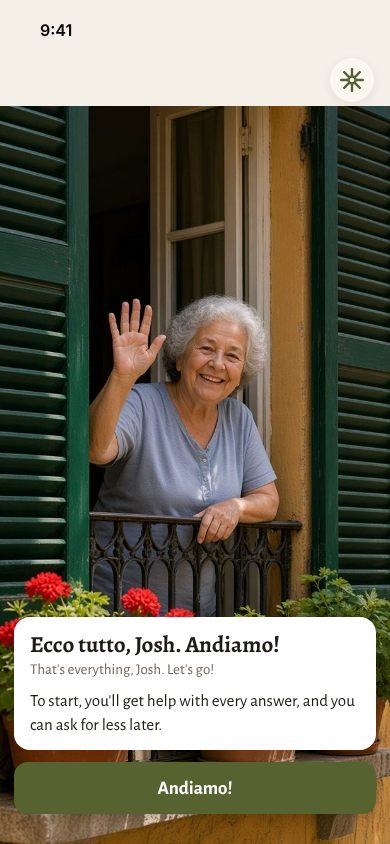
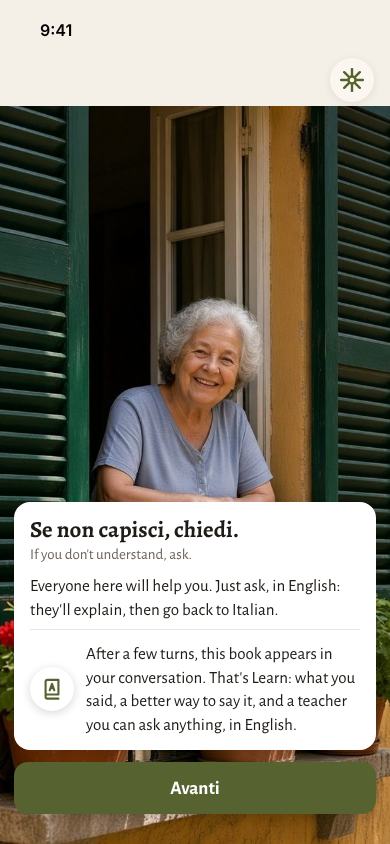
Orientation tour: say it in English back as step 7; help card without phrases (Josh)
Josh: "no H9 was good" (keep the say-it-in-English try) and "telling them
to recall Puo ripetere is useless". The tour is 9 steps: 1-6 as before,
7 say it in English tried once, 8 getting help (just ask, in English) with
the Learn book, 9 Andiamo. Canvas row H, pictures, script and roadmap updated.

Claude-Session: https://claude.ai/code/session_01HuSMtjsR1f1fbNVszYXEaS

Changed region(s): [[0.0308, 0.3389, 0.9846, 0.8626], [0.4, 0.9242, 0.6154, 0.955]]

diff --git a/docs/orientation-script.md b/docs/orientation-script.md
@@ -10,9 +10,9 @@
 - **About two to three minutes. Skippable at every step, replayable from Settings → How Fuori works.** Explanation beats move on with **Next**; that's navigation, not an answer.
 - **The game's rules don't apply here** (Josh, 2026-10-23). The immersion rules (Italian only, English only when asked, no AI notes) are for conversations in the world. This is set-up: she speaks English, talks about the app and names its parts.
 
-**Mock-ups (2026-10-23):** canvas "Reply buttons", row H; pictures in `design/orientation/H1.png` to `H8.png`. No Skip or step count in the bar (Josh); her full picture while she sets you up (1–4, 7, 8), then the app's own screens dimmed behind her card, with a small portrait of her on the card (5, 6).
+**Mock-ups (2026-10-23):** canvas "Reply buttons", row H; pictures in `design/orientation/H1.png` to `H9.png`. No Skip or step count in the bar (Josh); her full picture while she sets you up (1–4, 7–9), then the app's own screens dimmed behind her card, with a small portrait of her on the card (5, 6).
 
-**Built, steps 1–3 (laptop, 2026-10-23), with Josh's edits:** H1's note ends "Tap the green microphone to talk. Tap it again to send me your name." and her question reads "What's your name? Tap the mic" (onboarding keeps tap to talk, tap to send); H2's buttons are **Benvenuto** (Masculine) and **Benvenuta** (Feminine); H3 unchanged, and the level picked is the learner's level, shown and changed in Settings (`POST /v1/me/level`; the Settings picker is live). **No Skip and no step count in the bar** (Josh). With the mic off, step 1 offers to go on without a name. Lines in `content/<country>/onboarding.ts` → `orientation`; the app uses the tour when the server sends them, else today's onboarding. After step 3, Avanti goes to the city list until steps 4–8 are built (the tour is now 8 steps: Josh dropped the circle, characters and say-it-in-English beats and folded Learn into one help card, 2026-10-23).
+**Built, steps 1–3 (laptop, 2026-10-23), with Josh's edits:** H1's note ends "Tap the green microphone to talk. Tap it again to send me your name." and her question reads "What's your name? Tap the mic" (onboarding keeps tap to talk, tap to send); H2's buttons are **Benvenuto** (Masculine) and **Benvenuta** (Feminine); H3 unchanged, and the level picked is the learner's level, shown and changed in Settings (`POST /v1/me/level`; the Settings picker is live). **No Skip and no step count in the bar** (Josh). With the mic off, step 1 offers to go on without a name. Lines in `content/<country>/onboarding.ts` → `orientation`; the app uses the tour when the server sends them, else today's onboarding. After step 3, Avanti goes to the city list until steps 4–9 are built (the tour is now 9 steps: Josh dropped the circle and talking-with-characters beats and folded Learn into one help card, 2026-10-23).
 
 **More of a mix (Josh, 2026-10-23: "Maybe more of a mix of Italian and English?"):** every card opens with one short Italian line and its English, then the explanation in English. The Italian lines are simple and come back in the game. Buttons to move on say *Avanti*. Lines on the mock-ups:
 
@@ -24,8 +24,9 @@
 | 4 | *Perfetto! Fuori è un viaggio in Italia.* | Perfect! Fuori is a trip to Italy. |
 | 5 | *Si comincia da Roma.* | You start in Rome. |
 | 6 | *Scegli un posto.* | Pick a place. |
-| 7 | *Se non capisci, chiedi.* · *Può ripetere?* · *Più piano, per favore.* | If you don't understand, ask. · Can you say that again? · Slower, please. |
-| 8 | *Ecco tutto, {name}. Andiamo!* | That's everything. Let's go! |
+| 7 | *Non sai come si dice?* … *Perché sei in Italia?* | Don't know how to say it? … Why are you in Italy? |
+| 8 | *Se non capisci, chiedi.* | If you don't understand, ask. |
+| 9 | *Ecco tutto, {name}. Andiamo!* | That's everything. Let's go! |
 
 Beat 1 uses *Benvenuti* (plural) because she doesn't know yet how to address the learner.
 
@@ -71,14 +72,21 @@ Each beat: what's on screen · what she says · what the learner does · what it
 **Screen:** a city's places.
 **She:** "In each city, pick a place: a bar, a trattoria, a piazza, a pharmacy. Someone is always there. They remember you, so go back and they'll know you."
 
-## 7 · Getting help, and Learn
+## 7 · Say it in English
 
-Josh, 2026-10-23: no beats explaining the buttons (the circle, talking with characters, say it in English); one card on getting help from characters, with Learn, over her picture.
-**She:** *Se non capisci, chiedi.* "If you don't understand, ask. Everyone here will help you. Ask in English if you need to, or try:" *Può ripetere?* (Can you say that again?) · *Più piano, per favore.* (Slower, please.)
-**Then:** the Learn book, with "After a few turns, this book appears in your conversation. That's Learn: what you said, a better way to say it, and a teacher you can ask anything, in English."
+Kept (Josh, 2026-10-23: "H9 was good"). Her picture, the G2 bubbles.
+**She:** *Non sai come si dice?* "Don't know how to say it? Say it in English, and it comes back in Italian for you to read out loud. Try it:" *Perché sei in Italia?* (Why are you in Italy?)
+**Learner:** says it in English (the grey *Come si dice:* bubble), gets the "Say this:" line, reads it aloud; the mic has reopened by itself.
+**Sets:** what brings them here (for the characters' memory).
+
+## 8 · Getting help, and Learn
+
+Josh, 2026-10-23: no beats explaining the buttons (the circle, talking with characters); one card on getting help from characters, with Learn, over her picture. No phrases to remember ("telling them to recall Può ripetere is useless").
+**She:** *Se non capisci, chiedi.* "If you don't understand, ask. Everyone here will help you. Just ask, in English: they'll explain, then go back to Italian."
+**Then:** the Learn book: "After a few turns, this book appears in your conversation. That's Learn: what you said, a better way to say it, and a teacher you can ask anything, in English."
 **Learner:** **Avanti**.
 
-## 8 · Off you go
+## 9 · Off you go
 
 **She:** *Ecco tutto, {name}. Andiamo!* "That's everything. To start, you'll get help with every answer, and you can ask for less later."
 **Learner:** **Andiamo!** → the city list.

diff --git a/docs/06-roadmap.md b/docs/06-roadmap.md
@@ -97,7 +97,7 @@ Doesn't exist as a system yet; onboarding's placement, Magda's study-file Level 
 ### Onboarding ([onboarding-design.md](onboarding-design.md)) — N4, scaffolding
 - [x] **Josh + Claude** Flow, engineering needs, built and tried in both countries (2026-10-17)
 - [x] **Claude** The send-off failed on mixed answers (one English, one fluent): fixed 2026-10-18
-- [ ] **Josh + Claude** Orientation tour to replace onboarding ([orientation-script.md](orientation-script.md), draft, 2026-10-23): the greeter's tour in 8 beats, mixed Italian and English (name by mic, Masculine/Feminine and level by buttons, how the game works, cities, places, getting help with Learn, off you go; mock-ups on the canvas, row H). The game's rules don't apply to onboarding (Josh). Depends on say it in English
+- [ ] **Josh + Claude** Orientation tour to replace onboarding ([orientation-script.md](orientation-script.md), draft, 2026-10-23): the greeter's tour in 9 beats, mixed Italian and English (name by mic, Masculine/Feminine and level by buttons, how the game works, cities, places, say it in English tried once, getting help with Learn, off you go; mock-ups on the canvas, row H). The game's rules don't apply to onboarding (Josh). Depends on say it in English
 - [ ] **Claude** Launch and opening moment (Josh, 2026-10-22: "a strong intro"; canvas "Launch screen", https://claude.ai/artifact/5mTwgS9R8CubVMyUKaXoJZ). The system launch screen is paper with the icon (a `LaunchBackground` colour set named in `UILaunchScreen`, fixing the white flash, iOS conventions A13); the app's first view matches it exactly and holds the large picture for about a second at least (longer only while content loads), then fades to where the learner left off. A tap skips it. On first launch it stays and becomes the country choice, Fuori | Afuera (board 2), replacing today's two-card screen. Reduce Motion: plain crossfade. Check in both countries, AX5, VoiceOver
 
 ### Scaffolding ([beginner-scaffolding.md](beginner-scaffolding.md)) — N4
